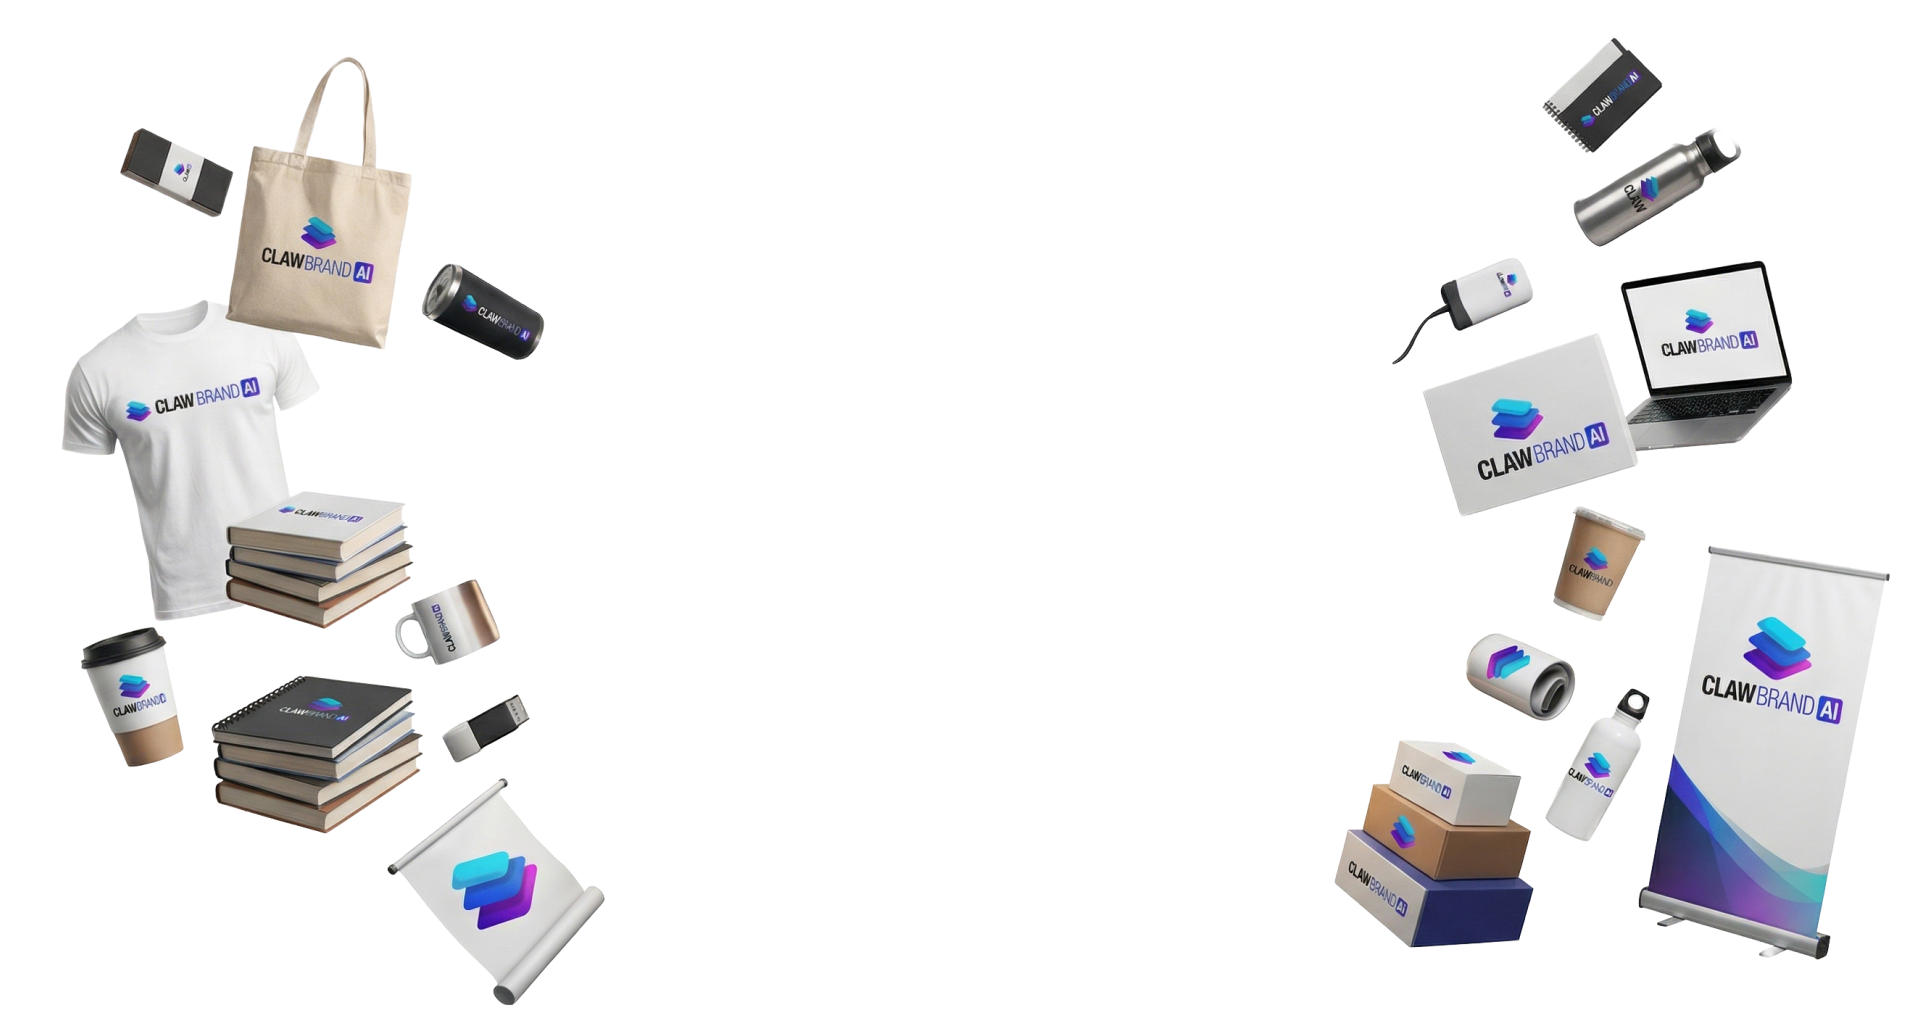
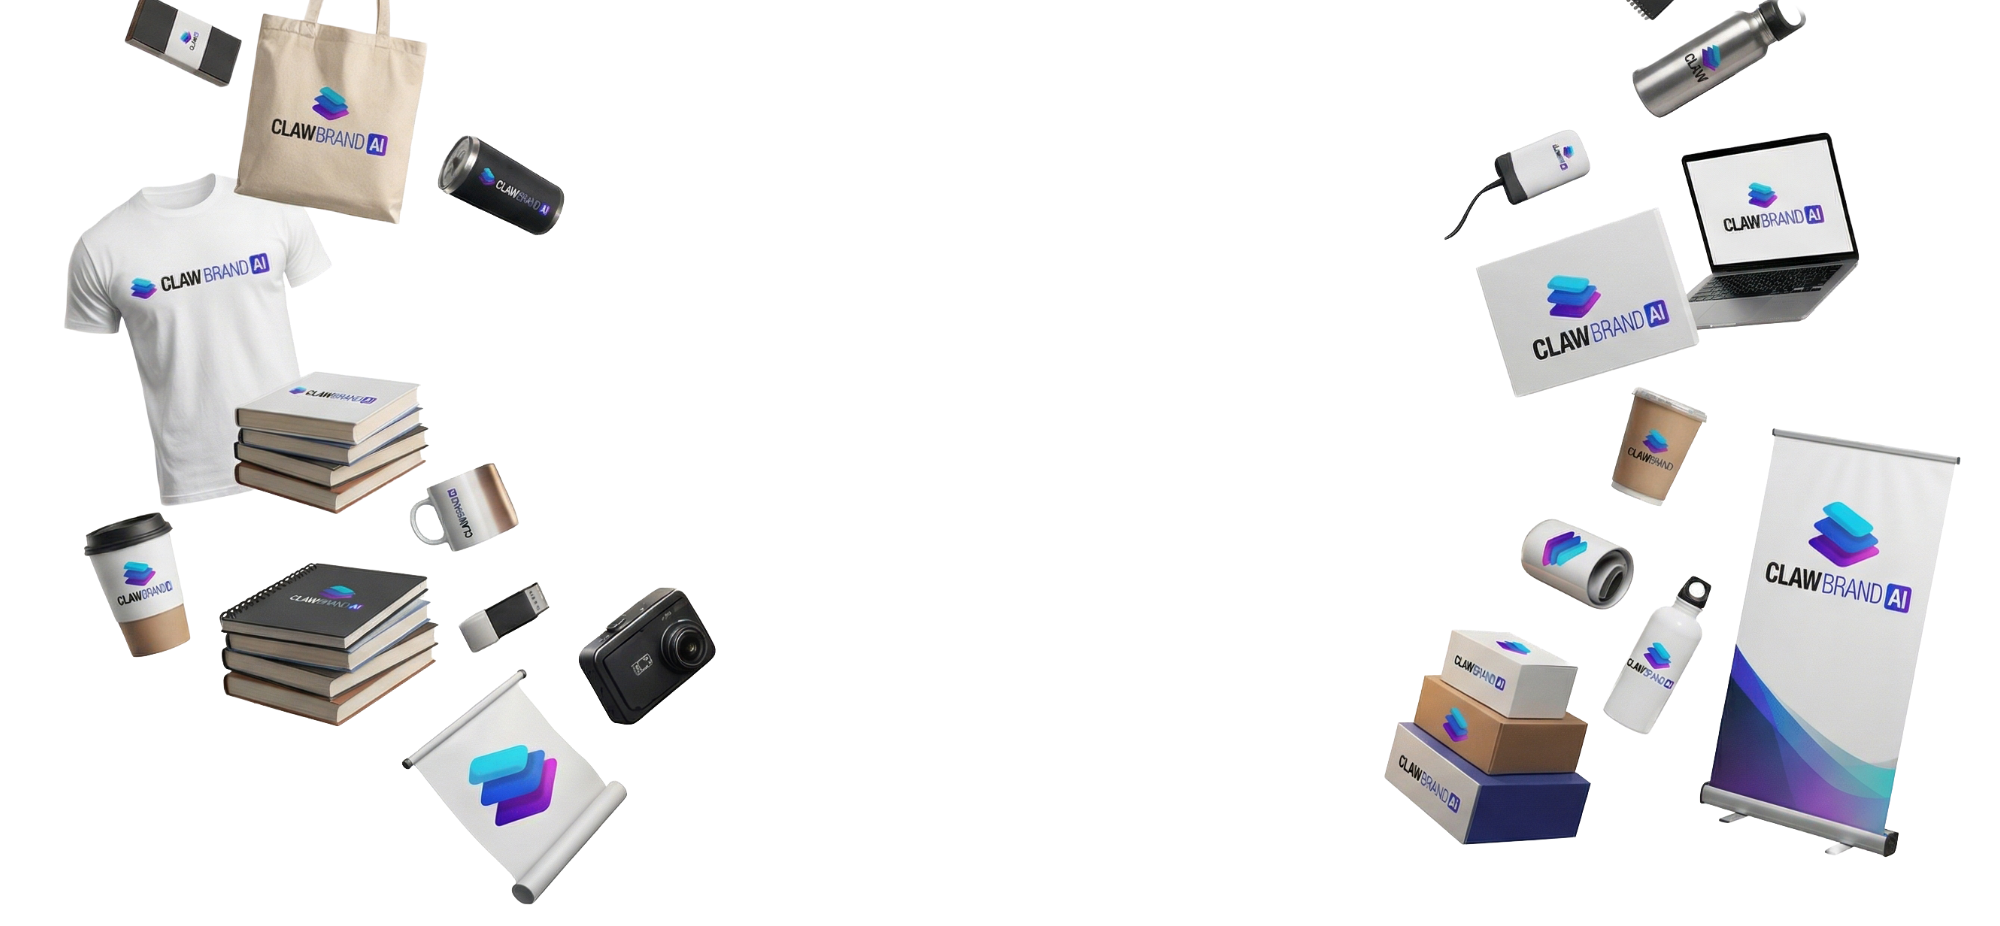
adjusted bg image

Changed region(s): [[0.0311, 0.0, 0.3734, 0.9676], [0.6846, 0.0, 0.9959, 0.9374]]

diff --git a/bundle/styles.css b/bundle/styles.css
@@ -69,7 +69,7 @@ a { text-decoration: none; }
 .bnd_hero {
   background-image: url('../images/mockupsbg.png'), radial-gradient(ellipse at 50% 0%, #173ed8 0%, #361abc 50%, #274fee 100%);
   background-size: cover;
-  background-position: bottom center;
+  background-position: top center;
   padding-bottom: 0;
   background-repeat: no-repeat;
 }
